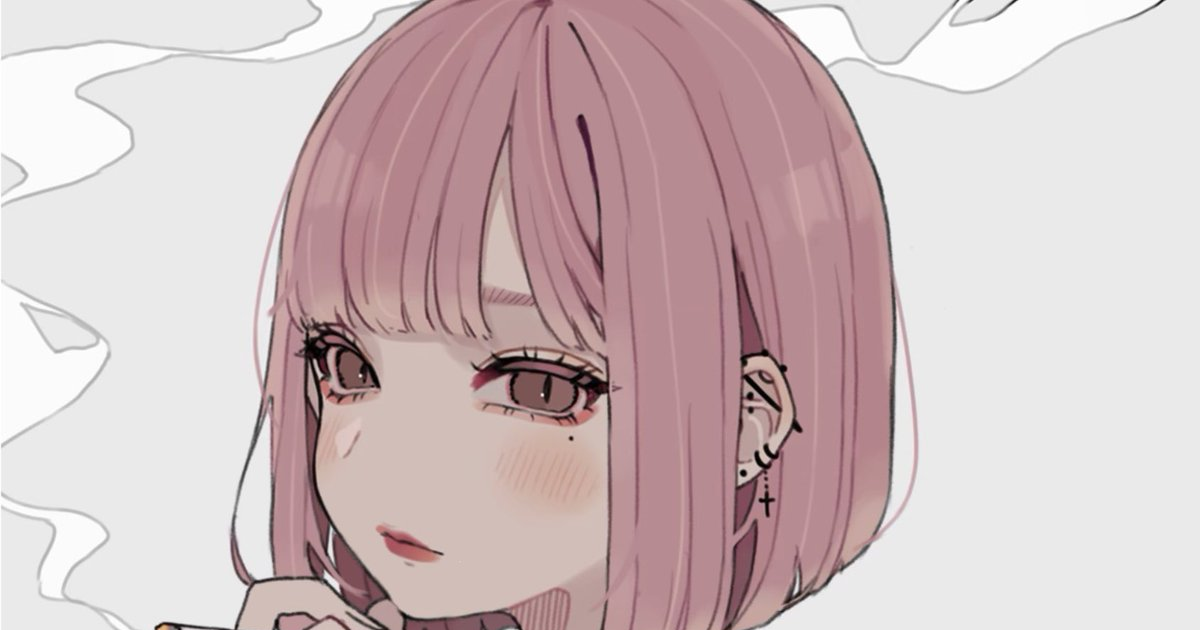
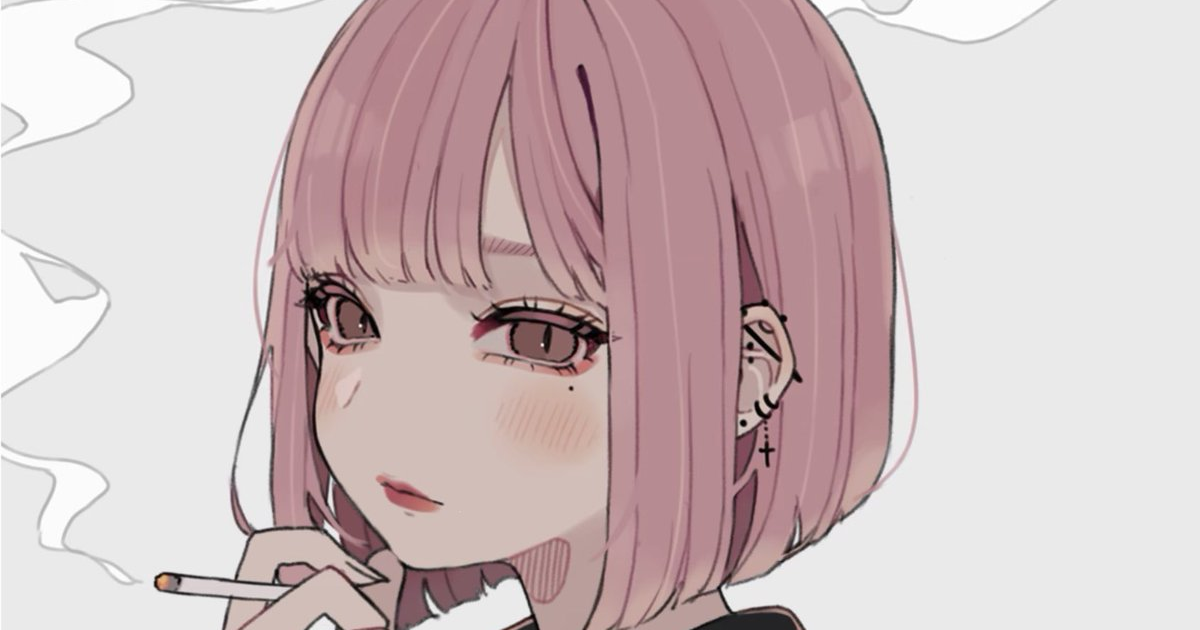
Adjust image crop position down by 50px

diff --git a/resize_image.py b/resize_image.py
@@ -1,7 +1,7 @@
 """画像を上部基準でリンクカードサイズにリサイズ"""
 from PIL import Image
 
-def resize_top_aligned(input_file, output_file, target_width=1200, target_height=630):
+def resize_top_aligned(input_file, output_file, target_width=1200, target_height=630, offset_y=0):
     """
     画像を上部基準でリサイズ（アスペクト比保持）
     
@@ -10,6 +10,7 @@ def resize_top_aligned(input_file, output_file, target_width=1200, target_height
         output_file: 出力画像ファイル
         target_width: 目標幅
         target_height: 目標高さ
+        offset_y: 切り取り開始位置のオフセット（ピクセル）正の数で下にずれる
     """
     # 元画像を読み込み
     img = Image.open(input_file)
@@ -23,10 +24,10 @@ def resize_top_aligned(input_file, output_file, target_width=1200, target_height
     resized = img.resize((target_width, new_height), Image.Resampling.LANCZOS)
     print(f"リサイズ後: {target_width}x{new_height}")
     
-    # 高さが630px以上なら上部から切り取り
-    if new_height >= target_height:
-        final = resized.crop((0, 0, target_width, target_height))
-        print(f"上部から切り取り: {target_width}x{target_height}")
+    # 高さが630px以上なら指定位置から切り取り
+    if new_height >= target_height + offset_y:
+        final = resized.crop((0, offset_y, target_width, target_height + offset_y))
+        print(f"切り取り: Y={offset_y}から{target_height + offset_y} ({target_width}x{target_height})")
     else:
         # 高さが足りない場合は白背景で埋める（通常は起こらない）
         final = Image.new('RGB', (target_width, target_height), (255, 255, 255))
@@ -38,4 +39,5 @@ def resize_top_aligned(input_file, output_file, target_width=1200, target_height
     print(f"✅ 保存完了: {output_file}")
 
 if __name__ == "__main__":
-    resize_top_aligned('card_image.jpg', 'card_image.png')
+    # 50ピクセル下にずらす（顔がより中央に来るように調整）
+    resize_top_aligned('card_image.jpg', 'card_image_v2.png', offset_y=50)
